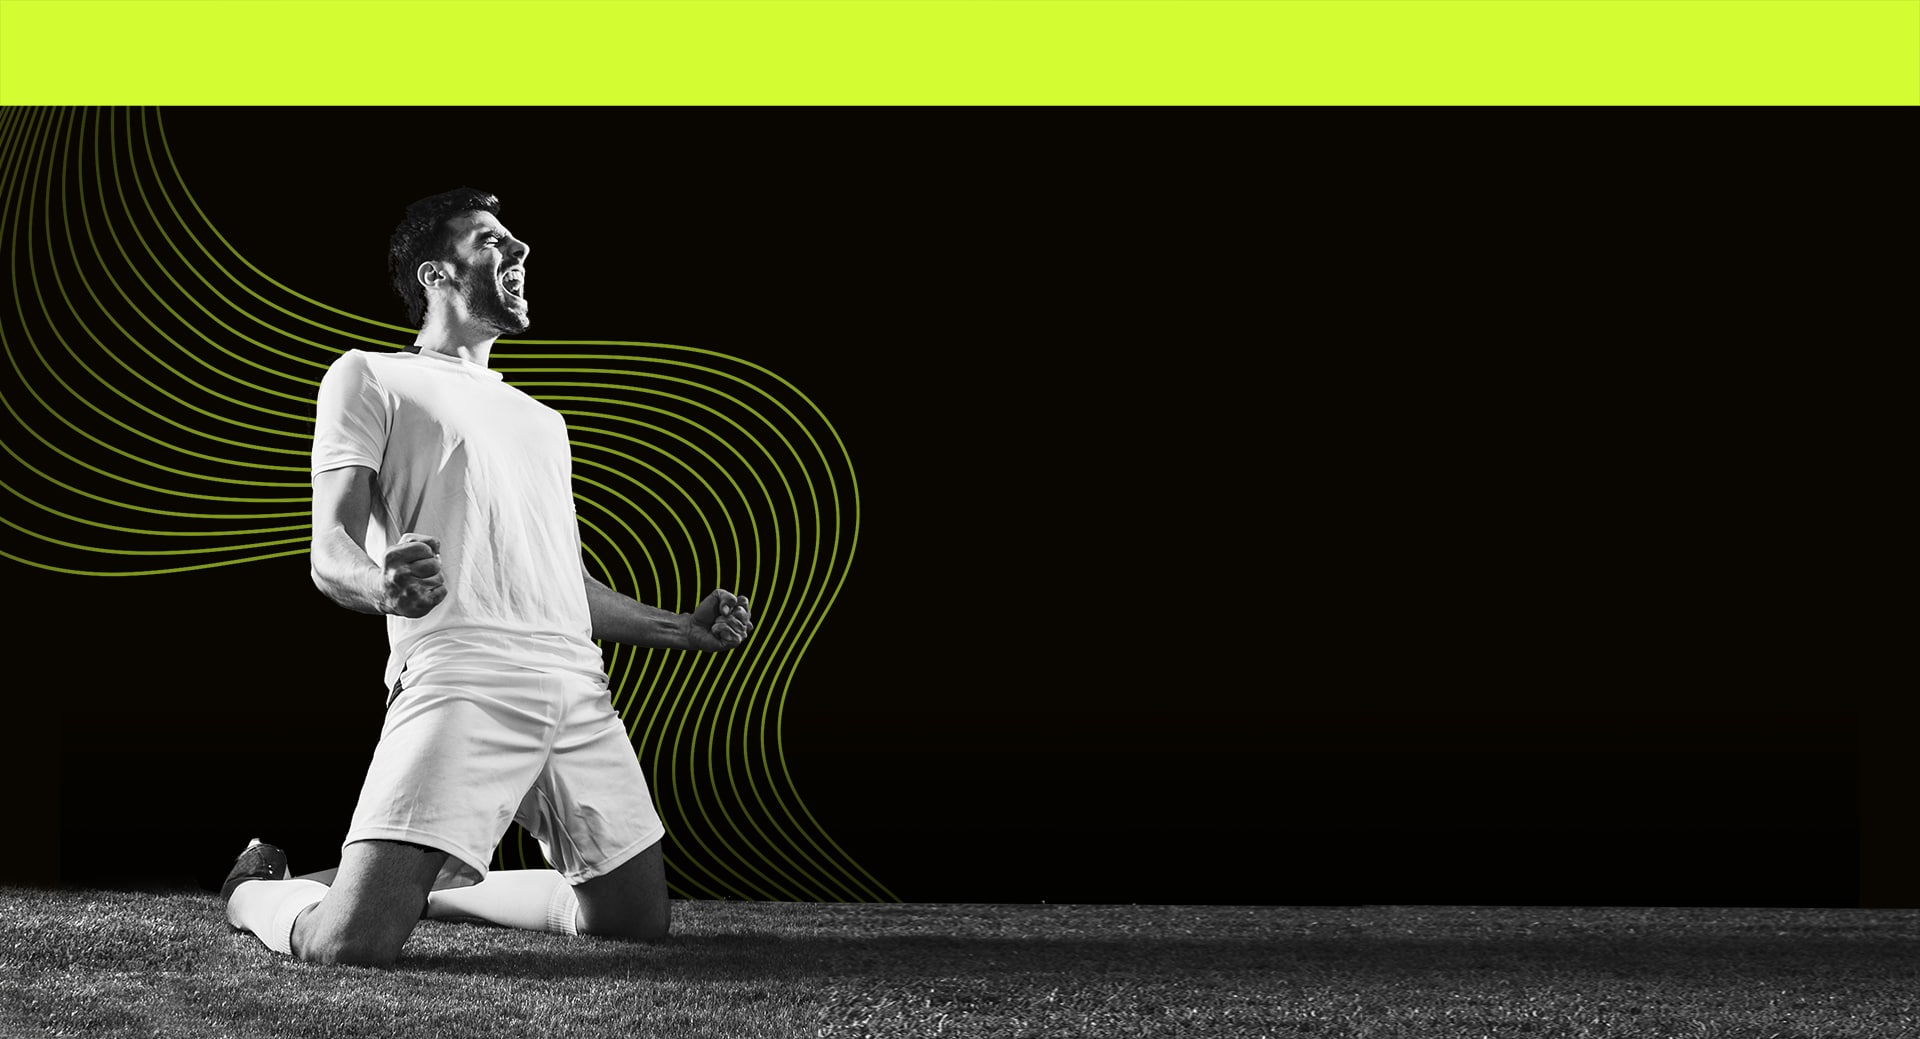
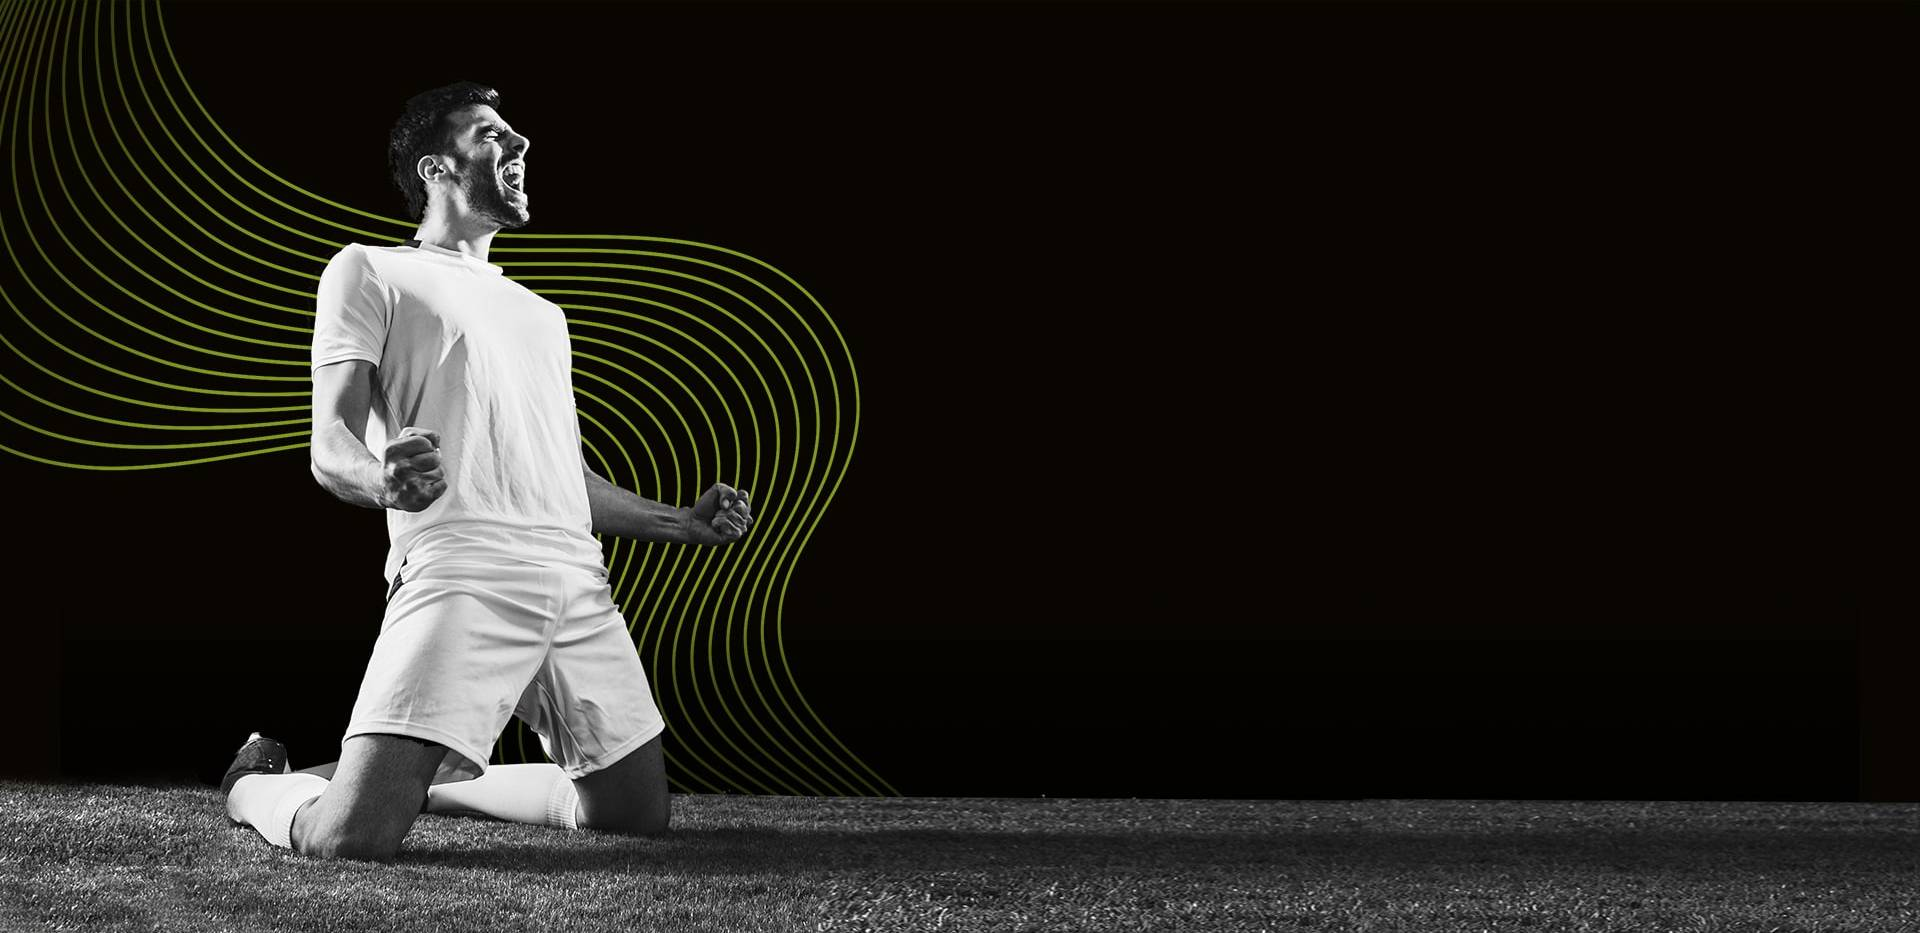
change the background top image

Changed region(s): [[0.0, 0.0, 1.0, 1.0]]

diff --git a/style.css b/style.css
@@ -103,6 +103,12 @@ src: url("./assets/fonts/OpenSans-SemiboldItalic.ttf");
     height: 428px;
 }
 
+.entry-front-header {
+    background-size: cover;
+    background-repeat: round;
+    height: 694px;
+}
+
 .entry-child-title {
     text-transform: uppercase;
     font-size: 5rem;
@@ -130,6 +136,24 @@ src: url("./assets/fonts/OpenSans-SemiboldItalic.ttf");
     font-family: OpenSans BoldItalic;
 }
 
+.child_title_front {
+    width: 100%;
+    color: #91FF30;
+    font-family: OpenSans BoldItalic;
+    padding-top: 10vh;
+}
+
+.child_title_front_first {
+    font-size: 3.7rem;
+    color:  #fff;
+    font-family: OpenSans BoldItalic;
+}
+
+.child_title_front_second {
+    font-size: 6rem;
+    color:  #91FF30;
+    font-family: OpenSans BoldItalic;
+}
 .child_title_first_sub {
     color:  #fff;
     font-family: OpenSans ExtraBold;
@@ -296,6 +320,9 @@ src: url("./assets/fonts/OpenSans-SemiboldItalic.ttf");
     }
     .content_bottom {
         height: 540px;
+    }
+    .entry-front-header {
+        height: 578px;
     }
     .content_bottom_text_area>h2 {
         font-size: 3rem;

diff --git a/astra/content.php b/astra/content.php
@@ -32,24 +32,22 @@
 >
 	<?php astra_entry_top(); ?>
 
-	<header class="entry-header <?php astra_entry_header_class(); ?>">
 
 		<?php
-		astra_the_title(
-			sprintf(
-				'<h2 class="entry-title" ' . astra_attr(
-					'article-title-content',
-					array(
-						'class' => '',
-					)
-				) . '><a href="%s" rel="bookmark">',
-				esc_url( get_permalink() )
-			),
-			'</a></h2>'
-		);
+		// astra_the_title(
+		// 	sprintf(
+		// 		'<h2 class="entry-title" ' . astra_attr(
+		// 			'article-title-content',
+		// 			array(
+		// 				'class' => '',
+		// 			)
+		// 		) . '><a href="%s" rel="bookmark">',
+		// 		esc_url( get_permalink() )
+		// 	),
+		// 	'</a></h2>'
+		// );
 		?>
 
-	</header><!-- .entry-header -->
 
 	<div class="entry-content clear" 
 	<?php

diff --git a/functions.php b/functions.php
@@ -97,6 +97,15 @@ function child_template_parts_content_top() {
     </header>
     <?php
     }
+    if(is_front_page()){
+    ?>
+    <header class="entry-front-header" style='background-image: url(<?php echo get_stylesheet_directory_uri() ?>/assets/images/01-bg-min.jpg); text-align: right;'>
+        <div class="astra-child-title">
+            <h2 class="entry-child-title child_title_front"><span class="child_title_front_first">Sports Betting</span><br /><span class="child_title_front_second">Winners!</span><br /><hr style="height: 2px; width: 5rem; background-color: #fff;margin-top: 20px; float: right;"></h2>
+        </div>
+    </header>
+    <?php
+    }
 }
 
 function child_template_parts_content_bottom() {
